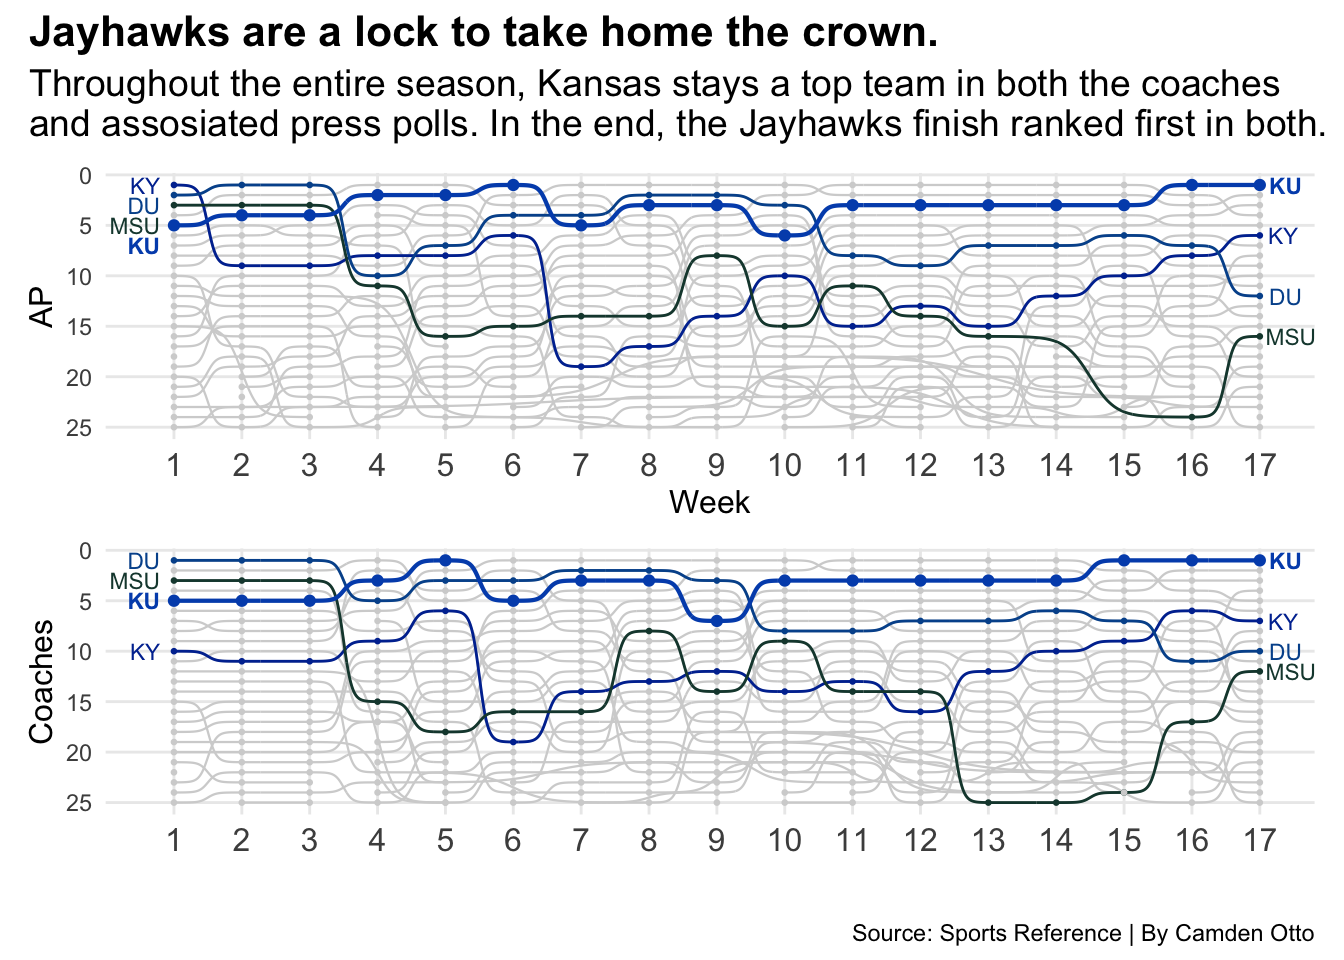
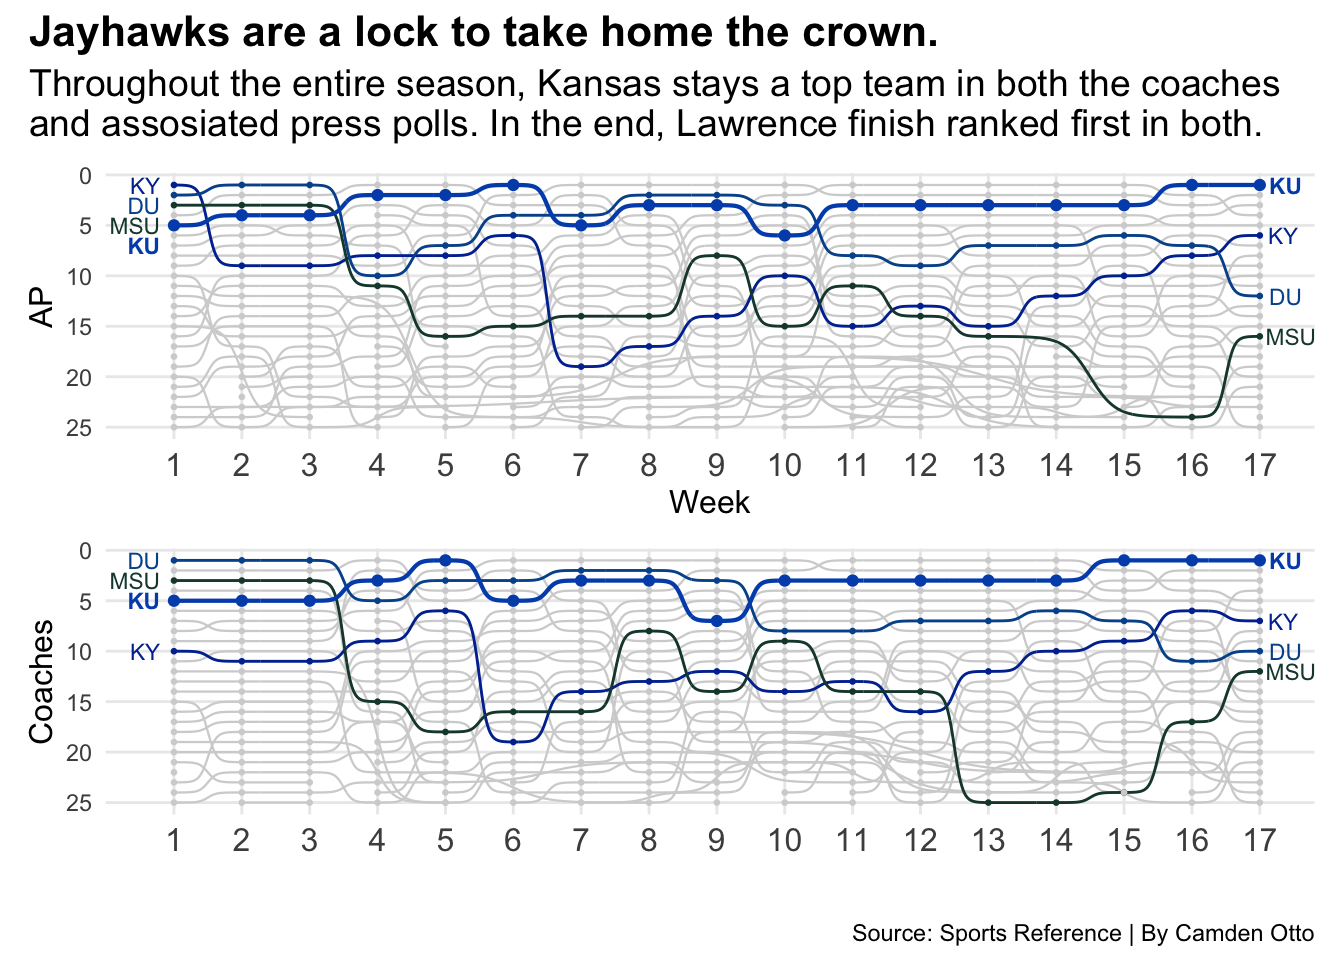
2.10

Changed region(s): [[0.5, 0.0938, 0.9688, 0.1562]]

diff --git a/posts/covid-got-scared-of-the-jayhawks/index.html b/posts/covid-got-scared-of-the-jayhawks/index.html
@@ -439,7 +439,7 @@ pre > code.sourceCode > span > a:first-child::before { text-decoration: underlin
 <span id="cb4-67"><a href="#cb4-67" aria-hidden="true" tabindex="-1"></a>APChart <span class="sc">/</span> CoachesChart <span class="sc">+</span></span>
 <span id="cb4-68"><a href="#cb4-68" aria-hidden="true" tabindex="-1"></a>  <span class="fu">plot_annotation</span>(</span>
 <span id="cb4-69"><a href="#cb4-69" aria-hidden="true" tabindex="-1"></a>    <span class="at">title =</span> <span class="st">"Jayhawks are a lock to take home the crown."</span>,</span>
-<span id="cb4-70"><a href="#cb4-70" aria-hidden="true" tabindex="-1"></a>    <span class="at">subtitle =</span> <span class="st">"Throughout the entire season, Kansas stays a top team in both the coaches</span><span class="sc">\n</span><span class="st">and assosiated press polls. In the end, the Jayhawks finish ranked first in both."</span>,</span>
+<span id="cb4-70"><a href="#cb4-70" aria-hidden="true" tabindex="-1"></a>    <span class="at">subtitle =</span> <span class="st">"Throughout the entire season, Kansas stays a top team in both the coaches</span><span class="sc">\n</span><span class="st">and assosiated press polls. In the end, Lawrence finish ranked first in both."</span>,</span>
 <span id="cb4-71"><a href="#cb4-71" aria-hidden="true" tabindex="-1"></a>    <span class="at">caption =</span> <span class="st">"Source: Sports Reference | By Camden Otto"</span></span>
 <span id="cb4-72"><a href="#cb4-72" aria-hidden="true" tabindex="-1"></a>  ) <span class="sc">&amp;</span> </span>
 <span id="cb4-73"><a href="#cb4-73" aria-hidden="true" tabindex="-1"></a>  <span class="fu">theme</span>(</span>

diff --git a/index.html b/index.html
@@ -209,7 +209,7 @@ window.Quarto = {
 
 <div class="quarto-listing quarto-listing-container-default" id="listing-listing">
 <div class="list quarto-listing-default">
-<div class="quarto-post image-right" data-index="0" data-categories="a2Fuc2FzJTJDYmFza2V0YmFsbCUyQ2NvbGxlZ2UlMkNjb3ZpZA==" data-listing-date-sort="1765087200000" data-listing-file-modified-sort="1764777719352" data-listing-date-modified-sort="NaN" data-listing-reading-time-sort="12" data-listing-word-count-sort="2396">
+<div class="quarto-post image-right" data-index="0" data-categories="a2Fuc2FzJTJDYmFza2V0YmFsbCUyQ2NvbGxlZ2UlMkNjb3ZpZA==" data-listing-date-sort="1765087200000" data-listing-file-modified-sort="1764778107675" data-listing-date-modified-sort="NaN" data-listing-reading-time-sort="12" data-listing-word-count-sort="2395">
 <div class="thumbnail"><a href="./posts/covid-got-scared-of-the-jayhawks/index.html" class="no-external">
 
 <img loading="lazy" src="./posts/covid-got-scared-of-the-jayhawks/image.png" class="thumbnail-image">
